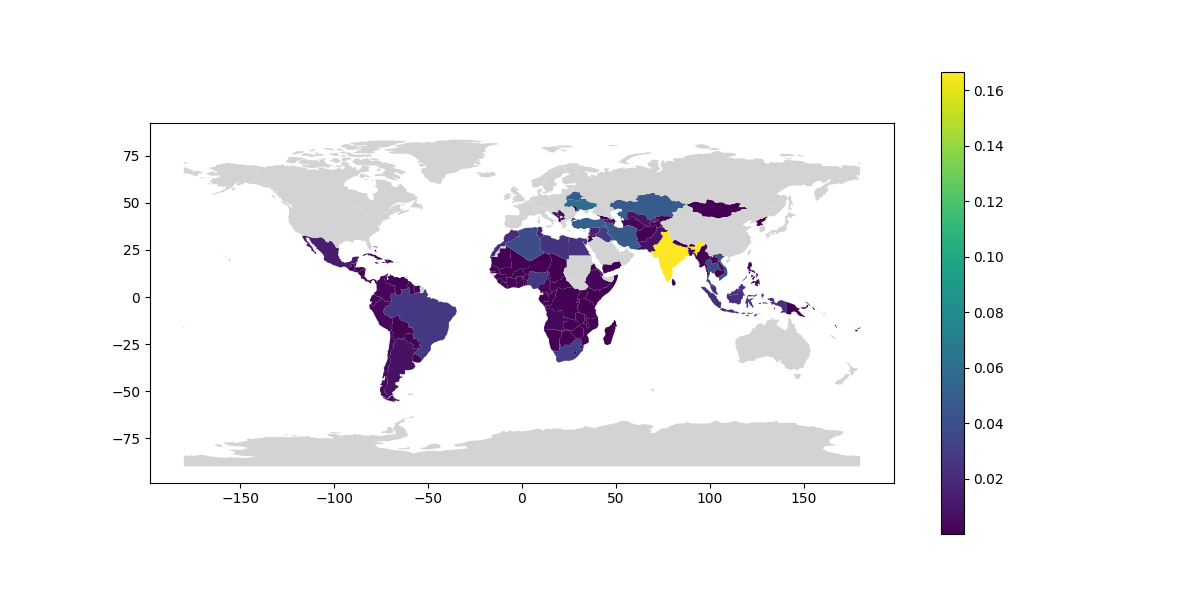
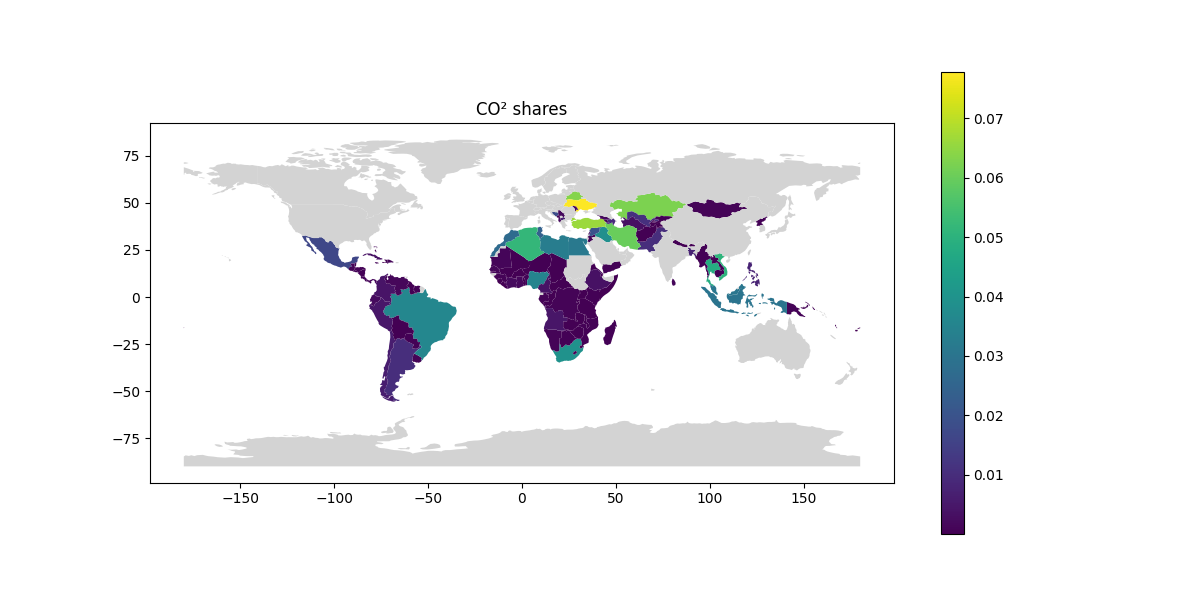
plot updates

diff --git a/src/plotting.py b/src/plotting.py
@@ -41,7 +41,7 @@ with open("data/High_income.json") as f:
 def plot(from_codes, to_codes, to_codes_name):
     non_from_to = [el for el in to_codes if el not in from_codes]
     non_from_to_wo_russia_and_china = [
-        el for el in non_from_to if el != "RUS" and el != "CHN"
+        el for el in non_from_to if el != "RUS" and el != "CHN" and el != "IND"
     ]
 
     ptt_df = (
@@ -49,10 +49,8 @@ def plot(from_codes, to_codes, to_codes_name):
             [ptt(eora, from_codes, el) for el in non_from_to],
             index=non_from_to,
         )
-        .rename("ptt")
         .rename(index={"SUD": "SDN"})
-        .rename()
-        .sort_values()
+        .rename("ptt")
         .reset_index()
         .rename(columns={"index": "ISO_A3"})
     )
